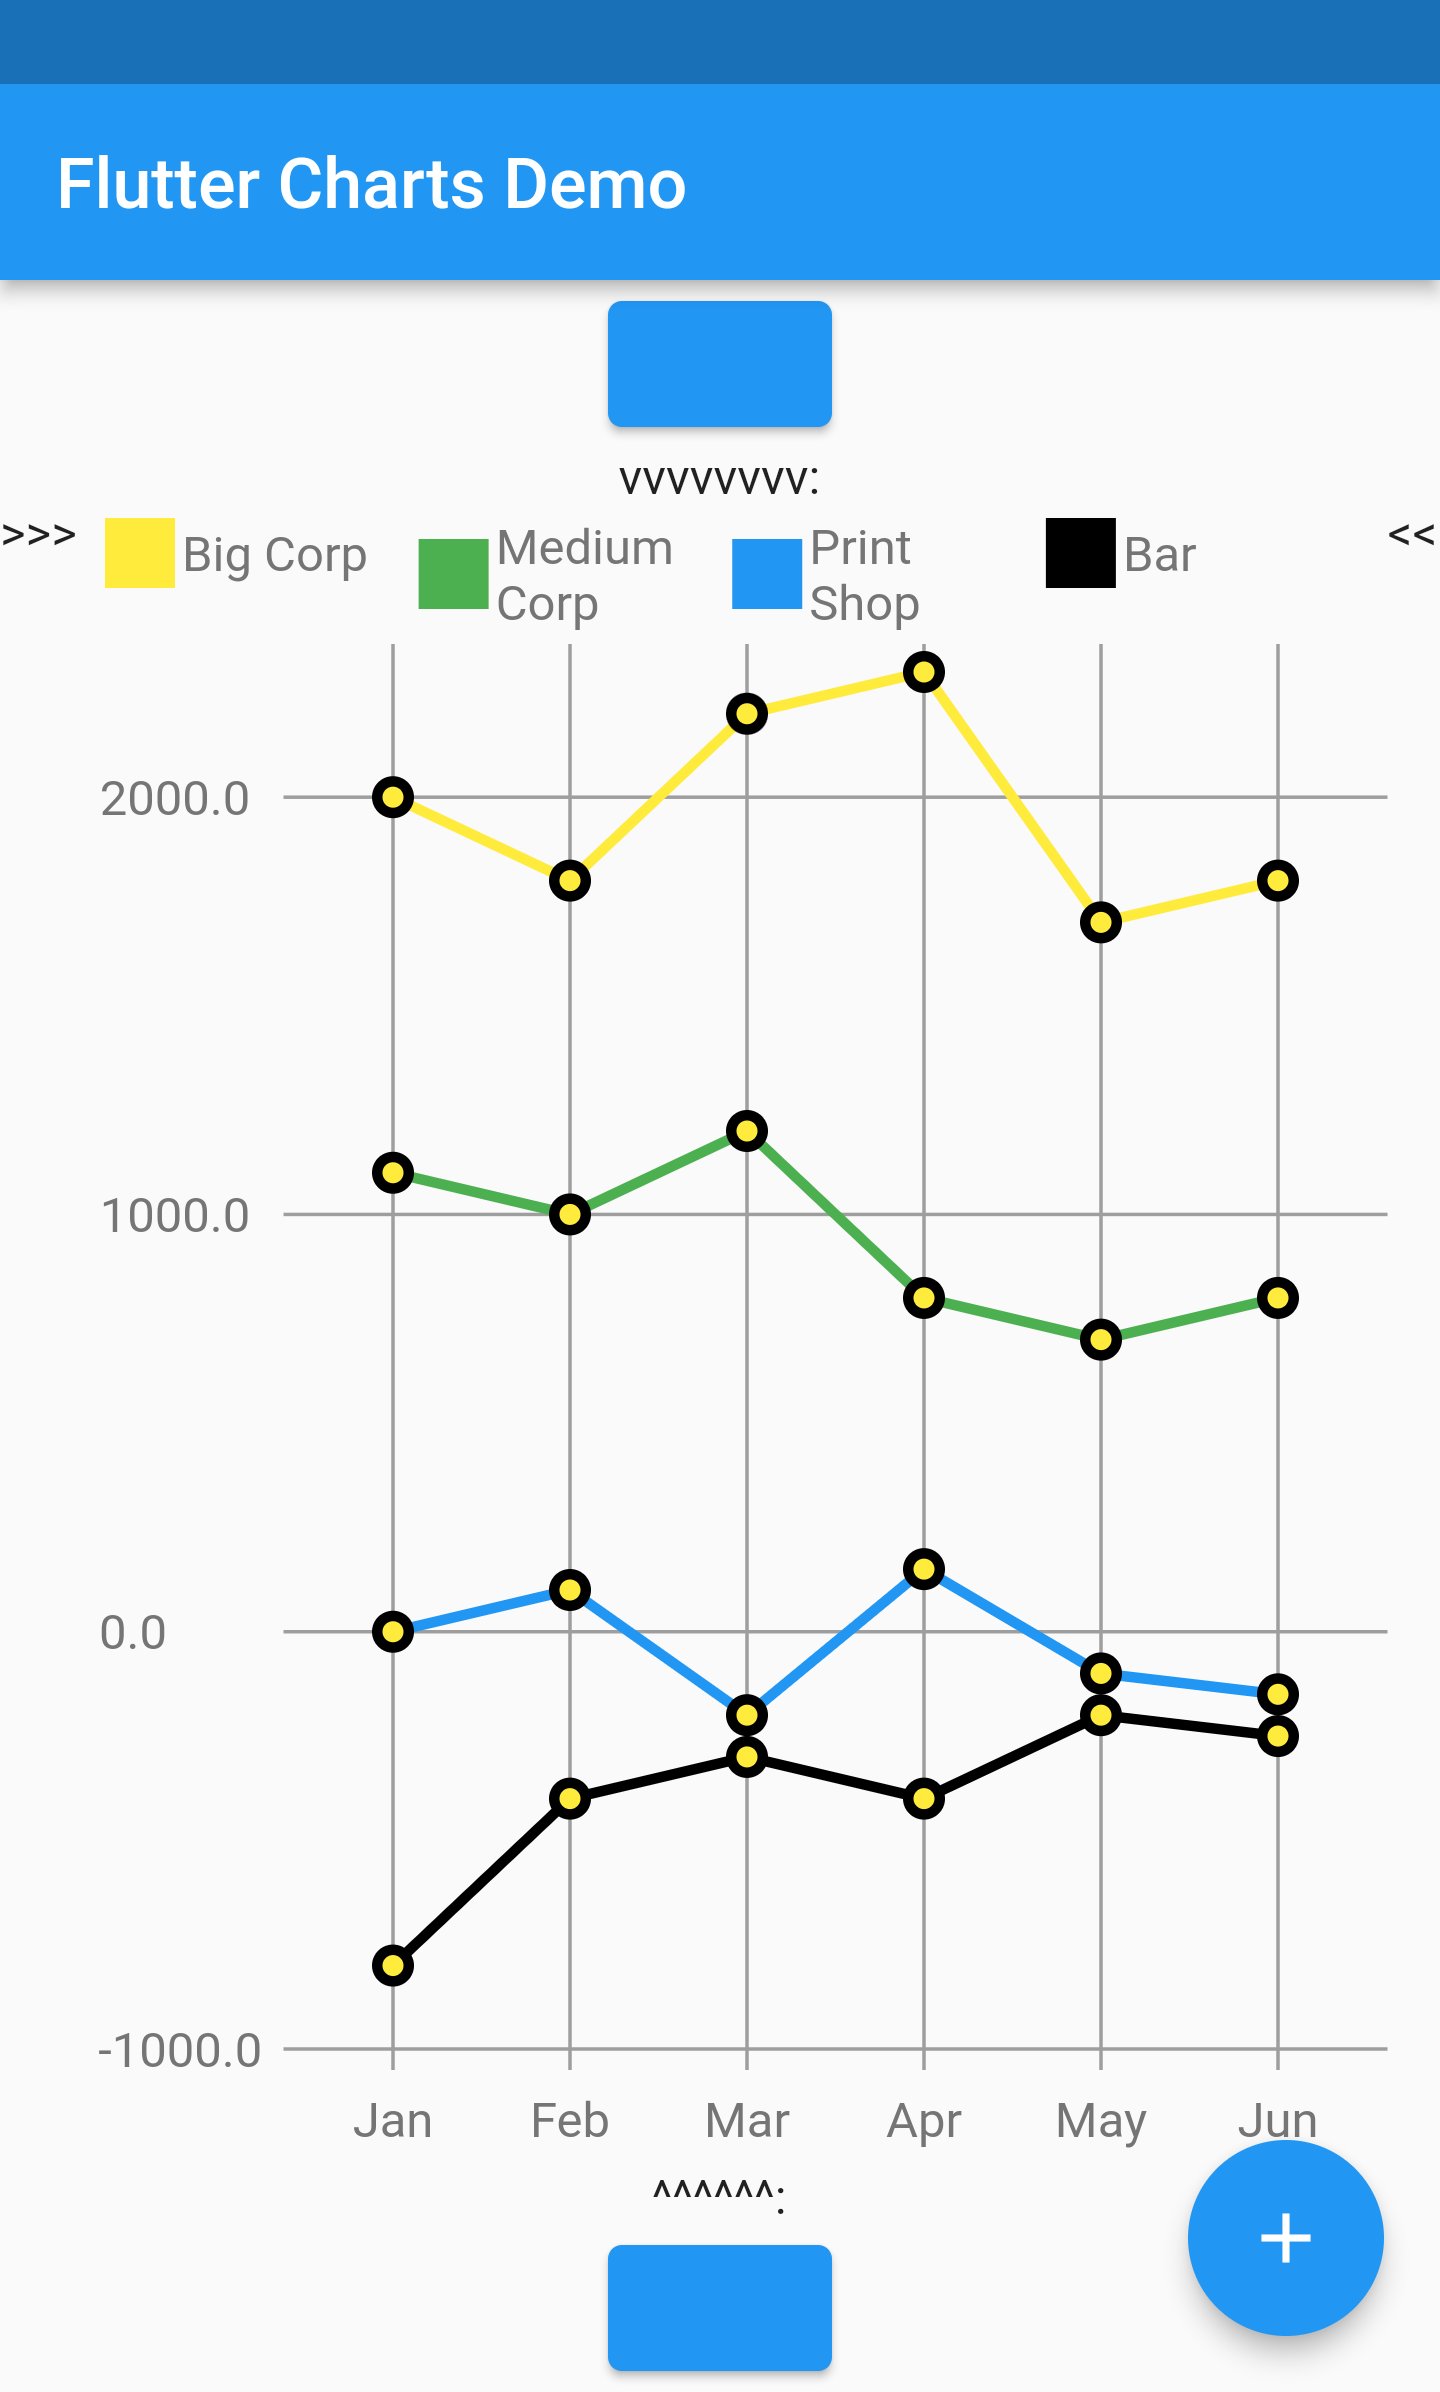
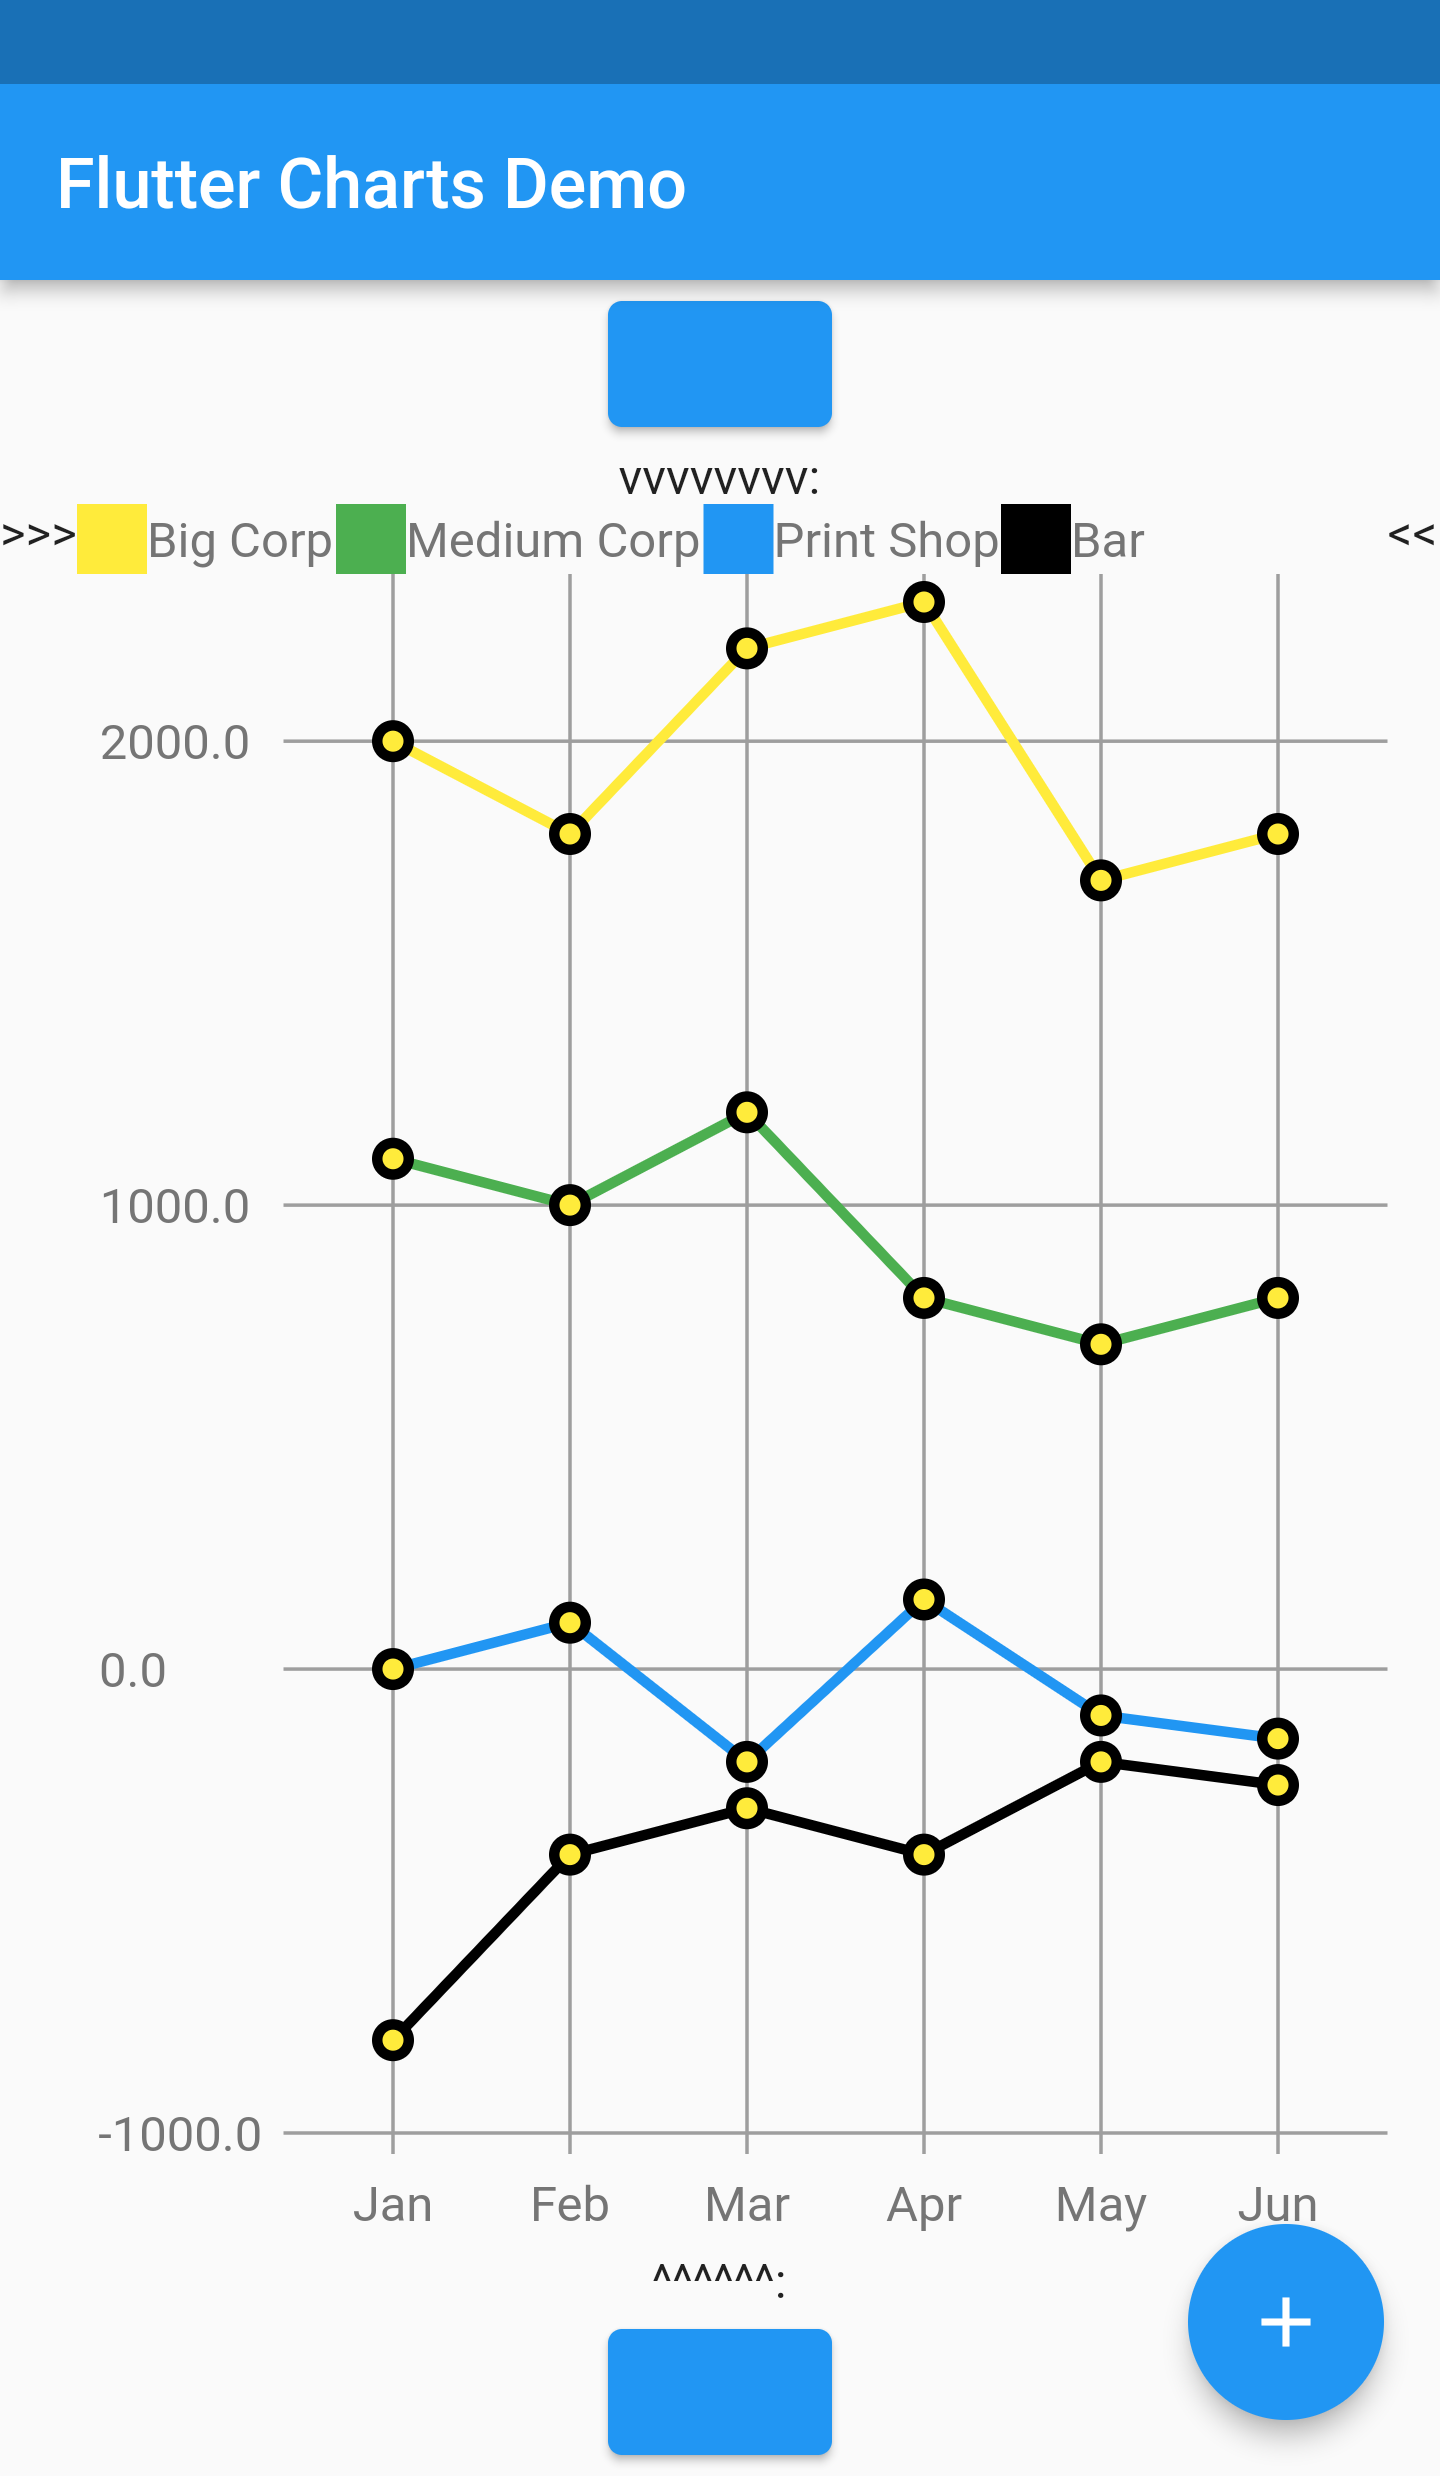
Milestone: Legend works, all images in Tests show  with slightly different layout, so replaced screenshots_expected with this new version so we can continue with tests..

diff --git a/lib/src/chart/container.dart b/lib/src/chart/container.dart
@@ -48,11 +48,6 @@ mixin ChartBehavior {
 ///
 abstract class ChartRootContainer extends BoxContainer with ChartBehavior {
   
-  @override
-  void newCoreLayout() {
-    // todo-00
-  }
-  
   /// Implements [BoxContainer.layoutSize].
   /// [ChartRootContainer] is the only one overriding layoutSize setter, to express the layoutSize is fixed chartArea
   @override
@@ -1174,12 +1169,6 @@ class LegendItemContainerNewKeep extends BoxContainer {
         _options = options,
         super(children: children);
 
-  @override
-  void newCoreLayout() {
-    // _layoutLogicToSetMembers();
-    super.newCoreLayout();
-  }
-
   void _layoutLogicToSetMemberMaxSizeForTextLayout() {
     double indicatorSquareSide = _options.legendOptions.legendColorIndicatorWidth;
     double indicatorToLabelPad = _options.legendOptions.legendItemIndicatorToLabelPad;
@@ -1315,23 +1304,10 @@ class LegendItemContainerNewKeep extends BoxContainer {
   void paint(ui.Canvas canvas) {
     if (parentOrderedToSkip) return;
 
-    // todo-00-last-last-last-last : Should painting generally just call super as applyParentOffset?
+    // todo-00-last-last-last-last-last : Should painting generally just call super as applyParentOffset?
     for (var rectThenLabelContainer in children) {
       rectThenLabelContainer.paint(canvas);
     }
-  }
-
-  @override
-  void applyParentOffset(ui.Offset offset) {
-    // todo-00-last-last-last-last : Move this skipping to super, then remove the special implementations in LEGEND
-    if (parentOrderedToSkip) return;
-
-    super.applyParentOffset(offset);
-/* todo-00-last-last-last-last-last
-    for (var rectThenLabelContainer in children) {
-      rectThenLabelContainer.applyParentOffset(offset);
-    }
- */
   }
 }
 
@@ -1557,21 +1533,18 @@ class LegendContainerNewKeep extends ChartAreaContainer {
 
   @override
   void applyParentOffset(ui.Offset offset) {
+    // todo-00-last-last-last-last-last
+    // todo-00-last-last-last-last : Why not, upon encountering this condition somewhere first, just set parentOrderedToSkip?
     if (!chartRootContainer.data.chartOptions.legendOptions.isLegendContainerShown) {
       return;
     }
     // super not really needed - only child containers are offset.
     super.applyParentOffset(offset);
-
-/* todo-00-last-last-last-last-last
-    for (BoxContainer legendItemContainer in children) {
-      legendItemContainer.applyParentOffset(offset);
-    }
-*/
   }
 
   @override
   void paint(ui.Canvas canvas) {
+    // todo-00-last-last-last-last : Why not, upon encountering this condition somewhere first, just set parentOrderedToSkip?
     if (!chartRootContainer.data.chartOptions.legendOptions.isLegendContainerShown) {
       return;
     }

diff --git a/lib/src/chart/label_container.dart b/lib/src/chart/label_container.dart
@@ -408,14 +408,9 @@ class LegendLabelContainerNewLegendSpecificKeep extends BoxContainer {
   // When using label on legend, make changes similar to the other leaf legend container: LegendIndicatorRectContainer
   @override
   void newCoreLayout() {
-    // todo-00-last-last : What does this do??
-    //                    When using label on legend, make changes similar to the other leaf legend container: LegendIndicatorRectContainer
     Tuple2 sizeAndOverflow = _layoutAndCheckOverflowInTextDirection();
     // todo-00-last-last-last-last : maybe as in Rect container on legend, provide only a getter and prevent setter. Or maybe this should be done in super???
     layoutSize = sizeAndOverflow.item1;
-
-    // todo-00-last-last-last-last : maybe not needed?
-    super.newCoreLayout();
   }
 
   // ##### Internal methods

diff --git a/lib/src/chart/container_layouter_base.dart b/lib/src/chart/container_layouter_base.dart
@@ -205,11 +205,10 @@ mixin BoxLayouter on BoxContainerHierarchy implements LayoutableBox {
   void newCoreLayout() {
     print('In newCoreLayout: this = $this. this.children = $children.');
     print('In newCoreLayout: parent of $this = $parent.');
-/* todo-00-last-last-last-last
+
     if (isLeaf) {
       return;
     }
-*/
 
     // todo-00-last-last : this needs to be fixed. Maybe use BoxContainerNull : assert(isRoot == (parentBoxContainer == null));
     if (isRoot) {
